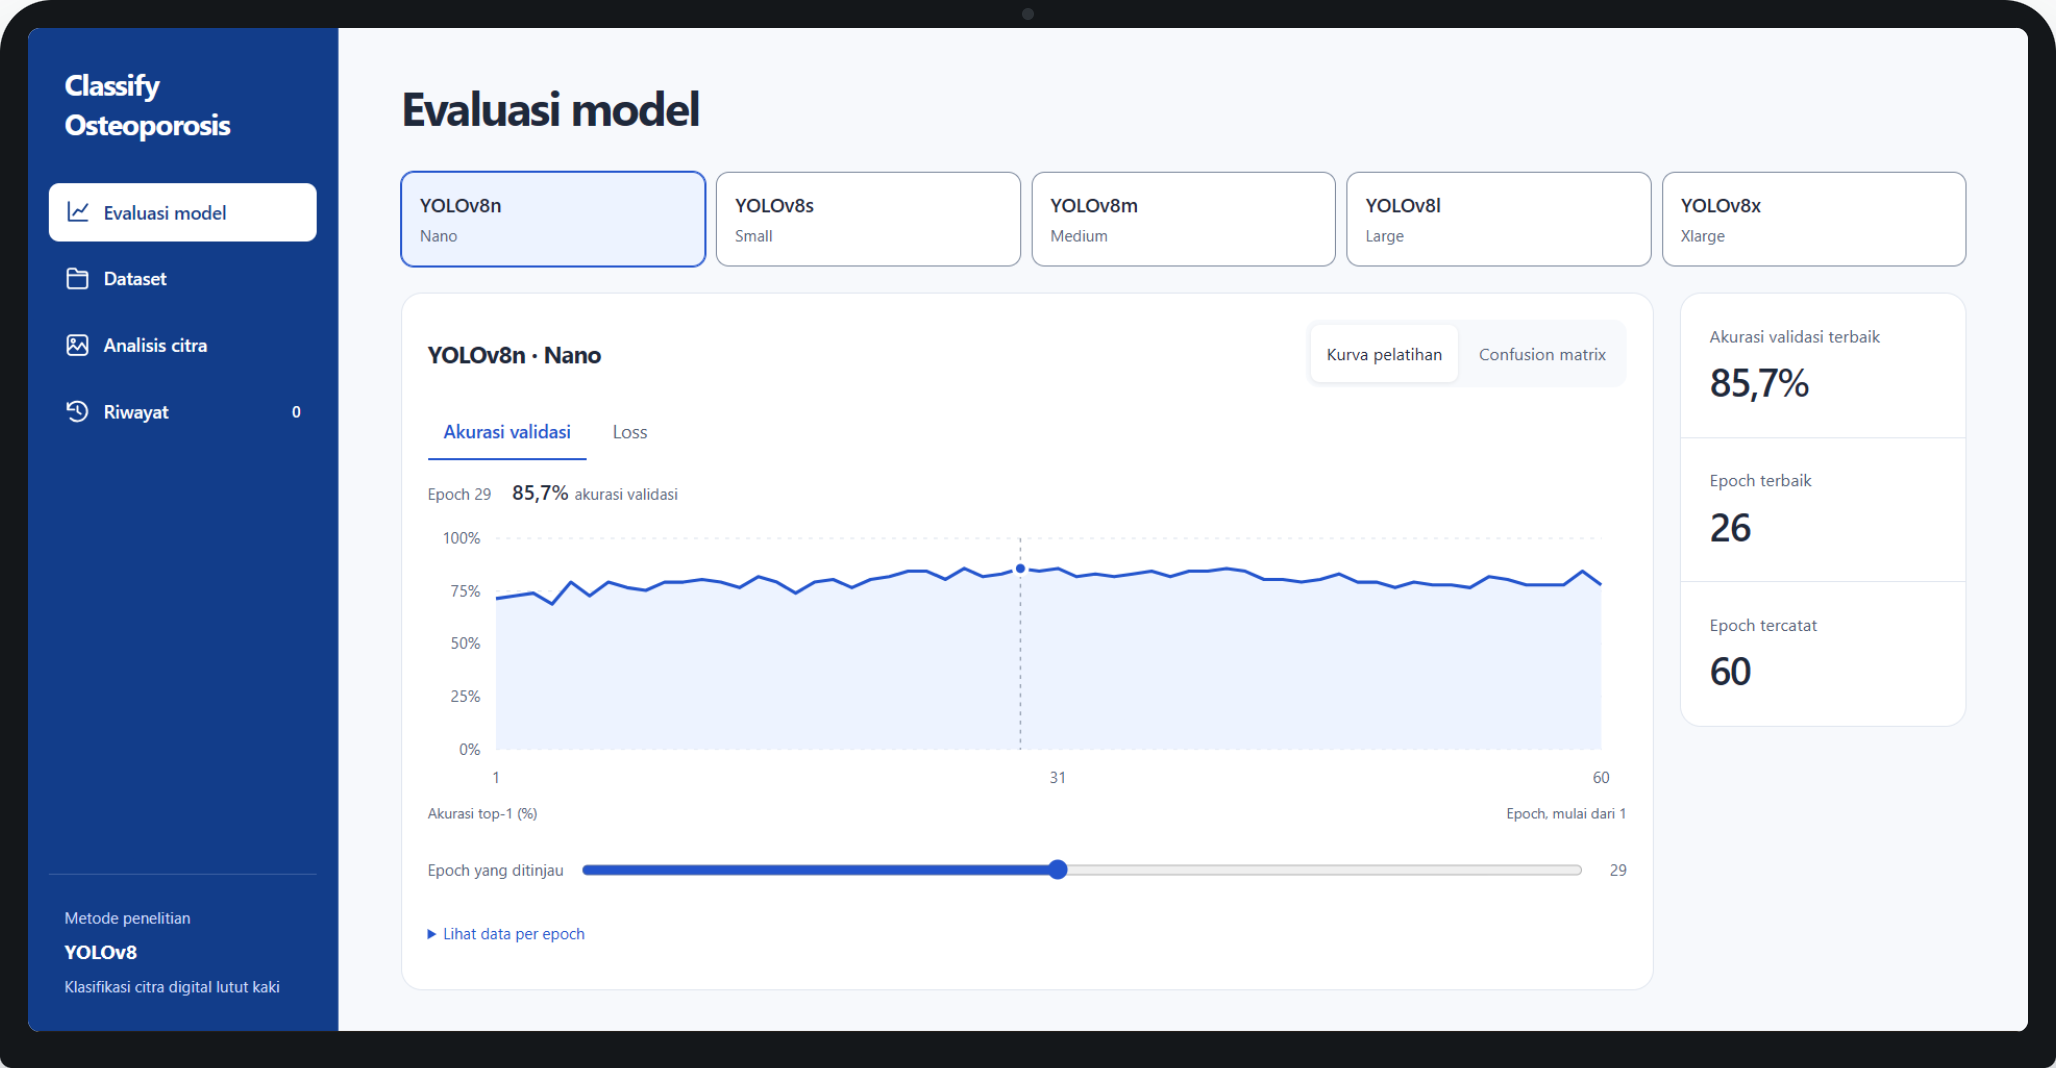
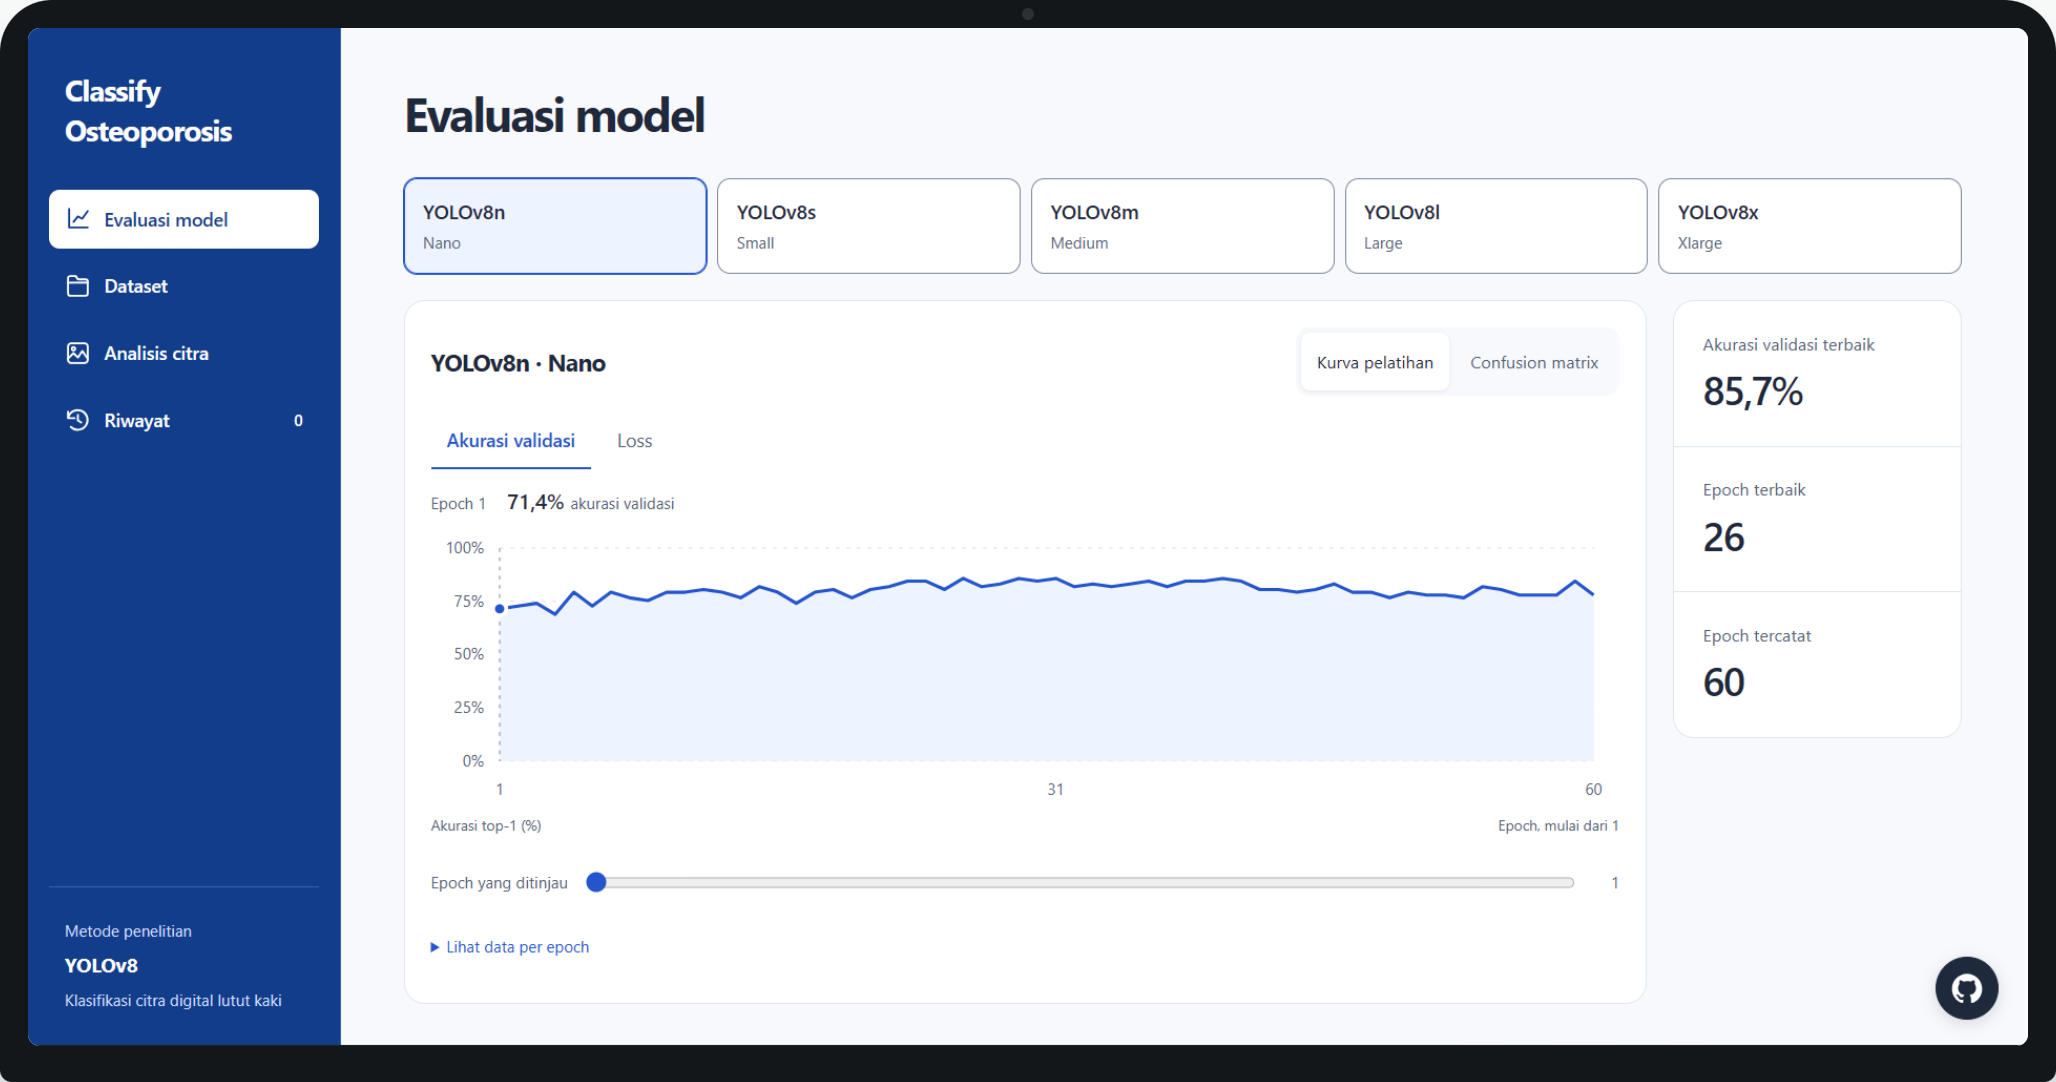
Refine responsive layout and refresh project images

diff --git a/src/components/Projects.tsx b/src/components/Projects.tsx
@@ -146,9 +146,6 @@ export const ProjectsSection = () => {
 		const contents = Array.from(
 			projectsRef.current?.querySelectorAll<HTMLDivElement>("[data-project-content]") ?? [],
 		);
-		const images = Array.from(
-			projectsRef.current?.querySelectorAll<HTMLButtonElement>("[data-project-image]") ?? [],
-		);
 		if (contents.length < 2) {
 			setCardHeight(0);
 			return;
@@ -159,12 +156,9 @@ export const ProjectsSection = () => {
 				const card = content.parentElement;
 				if (!card) return 0;
 				const styles = window.getComputedStyle(card);
-				const image = card.querySelector<HTMLButtonElement>("[data-project-image]");
-				const imageHeight =
-					styles.display === "flex" ? (image?.getBoundingClientRect().height ?? 0) : 0;
+				if (styles.display === "flex") return 0;
 				return (
 					content.getBoundingClientRect().height +
-					imageHeight +
 					parseFloat(styles.paddingTop) +
 					parseFloat(styles.paddingBottom)
 				);
@@ -177,9 +171,6 @@ export const ProjectsSection = () => {
 		contents.forEach((content) => {
 			observer.observe(content);
 		});
-		images.forEach((image) => {
-			observer.observe(image);
-		});
 		window.addEventListener("resize", measure);
 		return () => {
 			observer.disconnect();
@@ -190,7 +181,7 @@ export const ProjectsSection = () => {
 	return (
 		<section
 			id="projects"
-			className="scroll-mt-36 md:scroll-mt-40 desktop:scroll-mt-44 pb-16 desktop:py-24"
+			className="scroll-mt-36 md:scroll-mt-40 desktop:scroll-mt-44 max-md:pt-16 pb-16 desktop:py-24"
 		>
 			<SectionBackground />
 			<div className="container tablet-portrait:max-w-none">
@@ -318,7 +309,7 @@ export const ProjectsSection = () => {
 									type="button"
 									onClick={() => openFullscreen(project.id)}
 									aria-label={`${t.projects.viewImage} ${project.title}`}
-									className="relative flow-root w-full max-md:mt-auto tablet:col-span-2 tablet:self-stretch tablet:pb-6 tablet:before:block tablet:before:aspect-[var(--project-image-aspect-ratio)] tablet-portrait:col-span-1 tablet-portrait:self-stretch tablet-portrait:mt-0 tablet-portrait:pb-6 tablet-portrait:before:block tablet-portrait:before:aspect-[var(--project-image-aspect-ratio)] cursor-zoom-in focus:outline-hidden focus-visible:ring-2 focus-visible:ring-white/40"
+									className="relative flow-root w-full tablet:col-span-2 tablet:self-stretch tablet:pb-6 tablet:before:block tablet:before:aspect-[var(--project-image-aspect-ratio)] tablet-portrait:col-span-1 tablet-portrait:self-stretch tablet-portrait:mt-0 tablet-portrait:pb-6 tablet-portrait:before:block tablet-portrait:before:aspect-[var(--project-image-aspect-ratio)] cursor-zoom-in focus:outline-hidden focus-visible:ring-2 focus-visible:ring-white/40"
 								>
 									<Image
 										src={project.image}

diff --git a/src/components/About.tsx b/src/components/About.tsx
@@ -114,7 +114,7 @@ export const AboutSection = () => {
 	return (
 		<section
 			id="about"
-			className="relative scroll-mt-36 md:scroll-mt-40 lg:scroll-mt-44 py-20 lg:py-28"
+			className="relative scroll-mt-36 md:scroll-mt-40 lg:scroll-mt-44 py-16 md:py-20 lg:py-28"
 		>
 			<SectionBackground />
 			<div className="container tablet-portrait:max-w-5xl">
@@ -124,7 +124,7 @@ export const AboutSection = () => {
 					description={t.about.description}
 				/>
 
-				<div className="mt-20 flex flex-col gap-8">
+				<div className="mt-10 md:mt-20 flex flex-col gap-8">
 					<div className="grid grid-cols-1 gap-8 md:grid-cols-5 lg:grid-cols-3 tablet-portrait:grid-cols-2">
 						<motion.div
 							variants={v.up}
@@ -189,7 +189,7 @@ export const AboutSection = () => {
 									className="px-6 pt-6 pb-0 md:pt-8 md:pb-0 lg:pt-10"
 								/>
 								<div>
-									<p className="px-6 pt-2 pb-6 text-[13px] md:py-2 md:text-sm lg:px-8 lg:py-4 lg:text-base text-white/60 tablet-portrait:px-6 tablet-portrait:pb-6 tablet-portrait:text-sm">
+									<p className="px-6 pt-2 pb-6 text-[13px] md:py-2 md:text-sm lg:px-8 lg:py-4 lg:text-base text-white/60 tablet-portrait:px-6 tablet-portrait:pb-6 tablet-portrait:text-[13px]">
 										{t.about.biography.map((part) =>
 											part.strong ? (
 												<strong key={part.text} className="font-bold text-gray-300">
@@ -217,7 +217,7 @@ export const AboutSection = () => {
 									src={mapImage}
 									alt={t.about.mapAlt}
 									sizes="(min-width: 1024px) and (orientation: portrait) and (pointer: coarse) 464px, (min-width: 768px) and (orientation: portrait) and (pointer: coarse) calc(50vw - 3rem), (min-width: 600px) and (orientation: portrait) and (pointer: coarse) calc(50vw - 2rem), (min-width: 1200px) 304px, (min-width: 768px) 40vw, 100vw"
-									className="h-full w-full object-cover object-left-top md:object-center"
+									className="h-full w-full object-cover object-left-top md:object-center tablet-portrait:origin-right tablet-portrait:scale-115"
 								/>
 								<div className="absolute top-1/2 left-1/2 -translate-x-1/2 -translate-y-1/2 size-12 rounded-full">
 									<div className="absolute inset-0 rounded-full bg-linear-to-r/srgb from-emerald-300 to-sky-400 -z-20 animate-ping [animation-duration:2s]" />

diff --git a/src/components/Certificates.tsx b/src/components/Certificates.tsx
@@ -271,7 +271,7 @@ export const CertificatesSection = () => {
 					<section
 						ref={containerRef}
 						aria-label={t.certificates.title}
-						className="mt-12 lg:mt-20 relative overflow-hidden max-md:left-1/2 max-md:-translate-x-1/2 max-md:w-screen lg:left-1/2 lg:-translate-x-1/2 lg:w-[min(1280px,calc(100vw-4rem))] tablet-portrait:left-1/2 tablet-portrait:-translate-x-1/2 tablet-portrait:w-screen"
+						className="md:mt-12 lg:mt-20 relative overflow-hidden max-md:left-1/2 max-md:-translate-x-1/2 max-md:w-screen lg:left-1/2 lg:-translate-x-1/2 lg:w-[min(1280px,calc(100vw-4rem))] tablet-portrait:left-1/2 tablet-portrait:-translate-x-1/2 tablet-portrait:w-screen"
 						onMouseEnter={() => setIsHover(true)}
 						onMouseLeave={() => setIsHover(false)}
 					>

diff --git a/src/components/Experiences.tsx b/src/components/Experiences.tsx
@@ -218,7 +218,7 @@ export const ExperiencesSection = () => {
 	return (
 		<section
 			id="experiences"
-			className="scroll-mt-36 md:scroll-mt-40 lg:scroll-mt-44 py-20 lg:py-28"
+			className="scroll-mt-36 md:scroll-mt-40 lg:scroll-mt-44 py-16 md:py-20 lg:py-28"
 		>
 			<SectionBackground />
 			<div className="container tablet-portrait:max-w-none">
@@ -228,7 +228,7 @@ export const ExperiencesSection = () => {
 					description={t.experiences.description}
 				/>
 
-				<div className="mt-20 relative">
+				<div className="mt-10 md:mt-20 relative">
 					<motion.div
 						className="absolute left-1/2 -translate-x-1/2 w-0.5 h-full bg-linear-to-b/srgb from-emerald-300 to-sky-400 hidden md:block tablet-portrait:hidden"
 						initial={{ opacity: 0, scaleY: 0.9 }}

diff --git a/src/components/Footer.tsx b/src/components/Footer.tsx
@@ -24,7 +24,7 @@ export const Footer = () => {
 		<footer className="relative z-0 overflow-x-clip">
 			<div className="pointer-events-none absolute bottom-0 left-1/2 h-[400px] w-[1600px] -translate-x-1/2 bg-emerald-300/30 [mask-image:radial-gradient(50%_50%_at_bottom_center,black,transparent)] -z-10" />
 			<div className="container">
-				<div className="border-t border-white/15 py-6 text-sm flex flex-col md:flex-row md:justify-between items-center gap-4 md:gap-8">
+				<div className="border-t border-white/15 py-6 text-sm flex flex-col-reverse md:flex-row md:justify-between items-center gap-4 md:gap-8">
 					<div className="text-white/40">
 						&copy; {new Date().getFullYear()}. {t.footer.rights}
 					</div>
